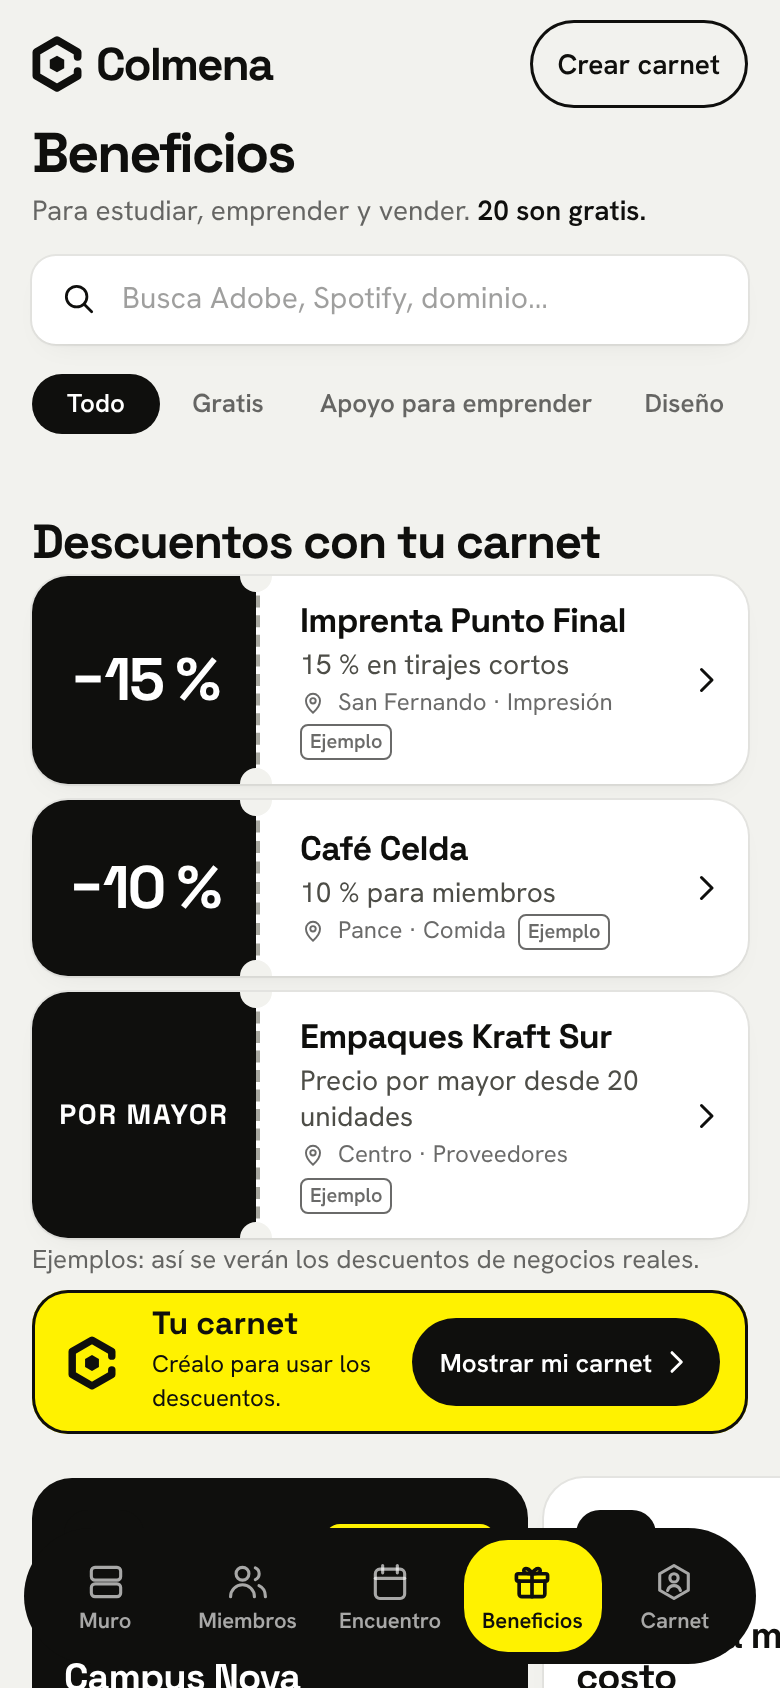
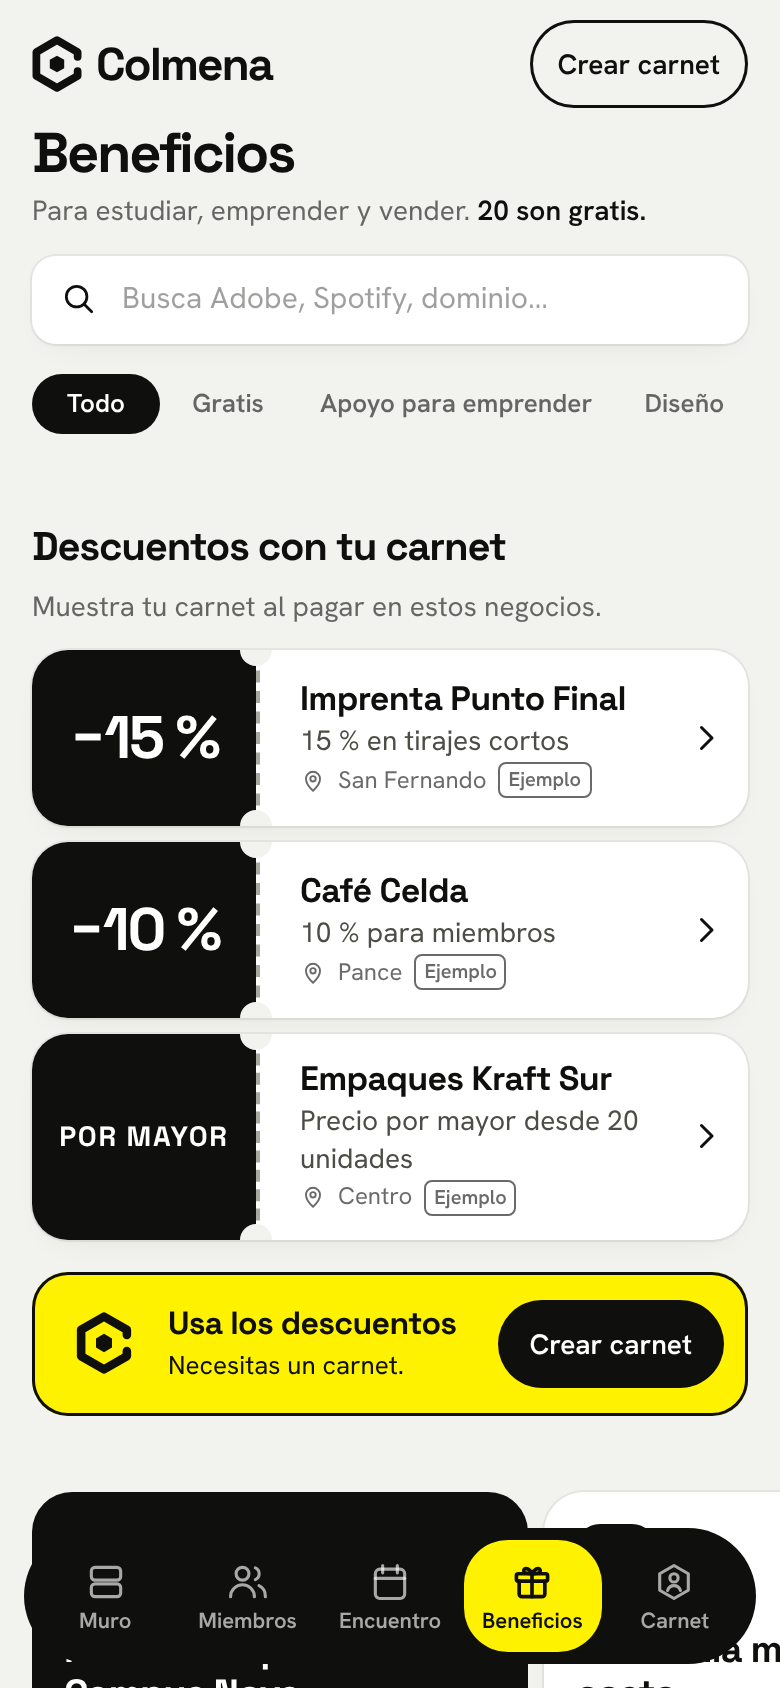
Corrige textos y espaciado del destacado y los descuentos
Quita los pasos abreviados del premio, restaura el flex de las secciones,
ajusta el carnet mini y la invitación a negocios.

Claude-Session: https://claude.ai/code/session_01NXLpfMcdTT21CPEoeYscCh

diff --git a/src/styles/app.css b/src/styles/app.css
@@ -1447,12 +1447,6 @@ button.chip, .bchips button, .m-cats button, .tabs-t button { min-width: 44px; }
 .dest-item.visto .dest-n { color: var(--muted); font-weight: 400; }
 
 /* Premio: pasos en una línea y cuenta regresiva */
-.home-ruta { list-style: none; margin: 0; padding: 0; display: flex; gap: 12px; flex-wrap: wrap; font: 600 13px/1.2 var(--ui); }
-.home-ruta li { display: inline-flex; align-items: center; gap: 6px; color: rgba(255, 255, 255, .86); }
-.home-ruta i { width: 22px; height: 24px; clip-path: var(--hex); background: var(--surface); color: var(--ink); display: grid; place-items: center; font: 700 12px/1 var(--disp); font-style: normal; }
-.home-premio-pie { display: flex; align-items: center; gap: 12px; flex-wrap: wrap; width: 100%; }
-.home-premio-pie small { font-size: 12px; color: rgba(255, 255, 255, .72); }
-.home-premio .cd { background: var(--surface); color: var(--ink); }
 .home-premio.con-ganador .home-avatar { animation: a-pop .24s var(--ease) both; }
 
 /* Tarjetas de la vitrina Esta semana */
@@ -1462,8 +1456,41 @@ button.chip, .bchips button, .m-cats button, .tabs-t button { min-width: 44px; }
 .home-mini small { font-size: 13px; color: var(--muted); }
 
 /* Cupones de aliados */
-.home-aliados { gap: 8px; }
-.home-aliados > .fine { margin: 2px 0 6px; }
+.home-aliados, .home-semana { display: flex; flex-direction: column; }
+.home-semana { gap: 12px; }
+.home-semana .sec-h { margin-top: 0; }
+.home-aliados h2, .home-semana h2, .home-gratis h2 { font-size: 20px; line-height: 1.15; }
+.home-aliados { gap: 8px; margin: 16px 0 16px; }
+.cupones { margin-top: 4px; }
+.home-aliados .cmini { margin-top: 8px; }
+.home-aliados .sec-h { margin-top: 0; }
+.home-aliados-sub { font-size: 14px; }
+
+/* Premio */
+.home-premio { gap: 12px; margin-top: 8px; }
+.home-premio-top { display: flex; align-items: center; justify-content: space-between; gap: 12px; width: 100%; }
+.home-premio-top .k { white-space: nowrap; display: flex; align-items: center; gap: 8px; color: rgba(255, 255, 255, .72); }
+.home-cierra { display: inline-flex; align-items: center; gap: 6px; min-height: 28px; padding: 0 10px; border-radius: 999px; background: rgba(255, 255, 255, .12); font: 600 12px/1 var(--disp); font-variant-numeric: tabular-nums; white-space: nowrap; }
+.home-premio > p { color: rgba(255, 255, 255, .8); max-width: 34ch; }
+.home-premio-pie { display: flex; align-items: center; gap: 12px; width: 100%; margin-top: 4px; }
+.home-premio-pie .btn { flex: 1; min-height: 48px; }
+
+/* Carnet mini: la llave de los descuentos */
+.cmini { display: flex; align-items: center; gap: 12px; width: 100%; min-height: 72px; padding: 12px 12px 12px 16px; border-radius: 18px; background: var(--polen); box-shadow: inset 0 0 0 1.5px var(--ink); text-align: left; transition: transform .15s var(--ease); }
+.cmini:active { transform: scale(.985); }
+.cmini-hex { flex: none; width: 40px; display: grid; place-items: center; }
+.cmini-t { flex: 1; min-width: 0; display: flex; flex-direction: column; gap: 4px; }
+.cmini-t b { font: 700 16px/1.2 var(--disp); letter-spacing: -.02em; overflow: hidden; text-overflow: ellipsis; white-space: nowrap; }
+.cmini-t small { font-size: 13px; line-height: 1.3; }
+.cmini-cta { flex: none; display: inline-flex; align-items: center; min-height: 44px; padding: 0 16px; border-radius: 999px; background: var(--ink); color: var(--surface); font: 600 14px/1 var(--ui); white-space: nowrap; }
+
+/* Invitación para negocios */
+.invita { display: flex; align-items: center; gap: 12px; width: 100%; min-height: 64px; padding: 12px 16px; border-radius: 18px; border: 1.5px dashed var(--ink-4); text-align: left; transition: transform .15s var(--ease); }
+.invita:active { transform: scale(.985); }
+.invita-ic { flex: none; width: 36px; height: 40px; clip-path: var(--hex); background: var(--surface); display: grid; place-items: center; }
+.invita-t { flex: 1; min-width: 0; display: flex; flex-direction: column; gap: 2px; }
+.invita-t b { font: 600 15px/1.25 var(--ui); }
+.invita-t small { font-size: 13px; color: var(--muted); }
 .cupones { display: flex; flex-direction: column; gap: 8px; }
 .cupon { display: flex; align-items: stretch; width: 100%; min-height: 88px; border-radius: 18px; background: var(--surface); box-shadow: var(--soft); text-align: left; overflow: hidden; transition: transform .15s var(--ease); padding-right: 12px; align-items: center; }
 .cupon:active { transform: scale(.985); }
@@ -1479,17 +1506,6 @@ button.chip, .bchips button, .m-cats button, .tabs-t button { min-width: 44px; }
 .cupon-cuerpo small { display: flex; align-items: center; flex-wrap: wrap; gap: 2px 6px; font-size: 12px; color: var(--muted); }
 .cupon-cuerpo small .ejemplo { margin-left: 0; }
 .cupon .ejemplo { margin-left: 6px; vertical-align: 2px; }
-.cupon.invita { background: transparent; box-shadow: inset 0 0 0 1.5px var(--ink-4); min-height: 72px; border-style: none; }
-.cupon.invita .cupon-valor { background: transparent; color: var(--ink); }
-.cupon.invita .cupon-valor::before, .cupon.invita .cupon-valor::after { display: none; }
-.cupon.invita .cupon-cuerpo { border-left-color: var(--ink-4); }
-.cmini { display: flex; align-items: center; gap: 12px; min-height: 64px; padding: 8px 14px 8px 12px; border-radius: 18px; background: var(--polen); box-shadow: inset 0 0 0 1.5px var(--ink); text-align: left; transition: transform .15s var(--ease); }
-.cmini:active { transform: scale(.985); }
-.cmini-hex { flex: none; width: 36px; display: grid; place-items: center; }
-.cmini-t { flex: 1; min-width: 0; display: flex; flex-direction: column; gap: 2px; }
-.cmini-t b { font: 700 16px/1.15 var(--disp); overflow: hidden; text-overflow: ellipsis; white-space: nowrap; }
-.cmini-t small { font-size: 12px; }
-.cmini-cta { flex: none; display: inline-flex; align-items: center; gap: 4px; min-height: 44px; padding: 0 14px; border-radius: 999px; background: var(--ink); color: var(--surface); font: 600 13px/1 var(--ui); white-space: nowrap; }
 
 /* Vitrinas intercaladas */
 .posts > .home-semana, .posts > .home-gratis { margin-block: 8px; }

diff --git a/src/screens/Beneficios.jsx b/src/screens/Beneficios.jsx
@@ -280,6 +280,7 @@ export function Aliados({ nav, pedirPerfil, limite = 0, invitar = false, onVerTo
       <h2>Descuentos con tu carnet</h2>
       {onVerTodos && todos.length > lista.length && <button type="button" className="ver" onClick={onVerTodos}>Ver todos</button>}
     </div>
+    <p className="soft home-aliados-sub">Muestra tu carnet al pagar en estos negocios.</p>
     {lista.length > 0 && (
       <div className="cupones">
         {lista.map((b) => {
@@ -290,7 +291,7 @@ export function Aliados({ nav, pedirPerfil, limite = 0, invitar = false, onVerTo
               <span className="cupon-cuerpo">
                 <b>{b.nombre}</b>
                 <span>{b.oferta}</span>
-                <small><Icon n="pin" s={13} />{[b.zona, b.categoria].filter(Boolean).join(' · ')}<Ejemplo p={b} /></small>
+                <small><Icon n="pin" s={13} />{b.zona || b.categoria}<Ejemplo p={b} /></small>
               </span>
               <Icon n="right" s={18} w={2} />
             </button>
@@ -298,16 +299,18 @@ export function Aliados({ nav, pedirPerfil, limite = 0, invitar = false, onVerTo
         })}
       </div>
     )}
-    {lista.length > 0 && lista.every((b) => b.es_ejemplo) && <p className="fine">Ejemplos: así se verán los descuentos de negocios reales.</p>}
     <button type="button" className="cmini" onClick={mostrar}>
-      <span className="cmini-hex">{c.yo ? <Hex p={c.yo} w={36} fs={13} /> : <CeldaAbierta s={24} />}</span>
-      <span className="cmini-t"><b>{c.yo ? c.yo.nombre : 'Tu carnet'}</b><small className={c.yo ? 'mono' : ''}>{c.yo ? carnetId(c.yo.carnet) : 'Créalo para usar los descuentos.'}</small></span>
-      <span className="cmini-cta">Mostrar mi carnet<Icon n="right" s={16} w={2.2} /></span>
+      <span className="cmini-hex">{c.yo ? <Hex p={c.yo} w={40} fs={14} /> : <CeldaAbierta s={28} />}</span>
+      <span className="cmini-t">
+        <b>{c.yo ? c.yo.nombre : 'Usa los descuentos'}</b>
+        <small className={c.yo ? 'mono' : ''}>{c.yo ? carnetId(c.yo.carnet) : 'Necesitas un carnet.'}</small>
+      </span>
+      <span className="cmini-cta">{c.yo ? 'Mostrar' : 'Crear carnet'}</span>
     </button>
     {invitar && (
-      <button type="button" className="cupon invita" onClick={() => setProponer(true)}>
-        <span className="cupon-valor"><Icon n="plus" s={26} w={2} /></span>
-        <span className="cupon-cuerpo"><b>¿Tienes un negocio?</b><span>Propón un descuento para los miembros.</span></span>
+      <button type="button" className="invita" onClick={() => setProponer(true)}>
+        <span className="invita-ic"><Icon n="plus" s={18} w={2.2} /></span>
+        <span className="invita-t"><b>¿Tienes un negocio?</b><small>Propón un descuento para los miembros.</small></span>
         <Icon n="right" s={18} w={2} />
       </button>
     )}

diff --git a/src/components/Inicio.jsx b/src/components/Inicio.jsx
@@ -77,7 +77,9 @@ export function Inicio({ nav, irTab, pedirPerfil }) {
 
       <EstadoDatos nombres={['reto', 'participantes', 'votos']}>
         <section className={'home-premio' + (perfil ? ' con-ganador' : '')} aria-label="Destacado de la semana">
-          <span className="k"><Icon n="star" s={16} /> Destacado de la semana</span>
+          <div className="home-premio-top">
+            <span className="k"><Icon n="star" s={16} /> Destacado de la semana</span>
+          </div>
           {perfil ? (
             <>
               <div className="home-ganador">
@@ -99,16 +101,10 @@ export function Inicio({ nav, irTab, pedirPerfil }) {
           ) : (
             <>
               <h2>Tu emprendimiento puede estar aquí.</h2>
-              <ol className="home-ruta" aria-label="Cómo se gana">
-                <li><i>1</i>Participa</li>
-                <li><i>2</i>Reciben Útil</li>
-                <li><i>3</i>7 días arriba</li>
-              </ol>
+              <p>{abierto ? 'Participa en el reto. La propuesta con más votos Útil se muestra aquí durante 7 días.' : 'El próximo reto elige al siguiente destacado con los votos Útil.'}</p>
               <div className="home-premio-pie">
-                <button className="btn outline-w sm" onClick={participar}>{abierto ? 'Participar en el reto' : 'Ver los retos'} <Icon n="right" s={16} /></button>
-                {abierto
-                  ? <span className="cd">{cierraEn(c.reto.cierra_en)}</span>
-                  : <small>El próximo destacado se elige con los votos Útil.</small>}
+                <button className="btn outline-w" onClick={participar}>{abierto ? 'Participar en el reto' : 'Ver los retos'} <Icon n="right" s={16} /></button>
+                {abierto && <span className="home-cierra"><Icon n="hour" s={14} />{cierraEn(c.reto.cierra_en)}</span>}
               </div>
             </>
           )}

diff --git a/docs/home-destacados/README.md b/docs/home-destacados/README.md
@@ -59,13 +59,14 @@ Misma rama y mismo PR. Comentarios de Jhon sobre la versión anterior: la franja
 ### Qué cambió
 1. **Sin "DCV" en la interfaz.** Bienvenida ("Colmena conecta a estudiantes que emprenden."), estado del carnet ("Activa") y textos de compartir ("la red de estudiantes que emprenden", en Registro y MiCarnet). `grep -rn DCV src` queda vacío y se revisaron `retos`, `encuentros`, `talleres`, `convocatorias` y `beneficios` en la base: ninguna fila lo contiene. No se tocó `docs/marca/` (el spec todavía dice "Activa · DCV": ver decisiones de Jhon). El dominio `colmena-dcv.netlify.app` sigue igual: es una URL, no un texto de la interfaz.
 2. **Perfil de prueba "jhon" eliminado** con migración de solo datos (`supabase/migraciones/20261104_borrar_perfil_prueba_jhon.sql`), solo por su id y con `not es_ejemplo`. Antes: 9 perfiles (1 real), 10+1 publicaciones; el objetivo tenía 1 publicación, 0 ayudas, 0 retos, 0 cuentas. Resultado: 1 publicación y 1 perfil borrados. Después: 8 perfiles (0 reales), 10 publicaciones (0 reales), 6 disponibles ahora. Revisión de estados: inicio, "Disponibles ahora", Miembros, destacado y bienvenida cargan sin vacíos ni errores (capturas más abajo y 17 comprobaciones de home).
-3. **Descuentos de aliados como cupones.** Cada uno es un cupón horizontal: bloque Tinta con el valor en grande (−15 %, −10 %, POR MAYOR), perforación con muescas y cuerpo Blanco con nombre, condición, zona y la etiqueta Ejemplo. Debajo, un carnet mini en Polen (con tu hexágono y número si tienes carnet) con el botón "Mostrar mi carnet", que abre la pantalla `mostrar` que ya existía (si no hay carnet, primero ofrece crearlo). Al final, una invitación con borde punteado, "¿Tienes un negocio?", que abre el formulario de propuesta ya existente (`proponer_beneficio`). Se apilan en vertical, así que no hay tarjetas cortadas ni huecos; el inicio muestra 3 y "Ver todos" lleva a Beneficios. No hay logos ni imágenes inventadas: el valor hace de imagen.
+3. **Descuentos de aliados como cupones.** Cada uno es un cupón horizontal: bloque Tinta con el valor en grande (−15 %, −10 %, POR MAYOR), perforación con muescas y cuerpo Blanco con nombre, condición, zona y la etiqueta Ejemplo. Debajo, un carnet mini en Polen (con tu hexágono y número si tienes carnet) con el botón "Mostrar" (o "Crear carnet"), que abre la pantalla `mostrar` que ya existía (si no hay carnet, primero ofrece crearlo). Al final, una invitación con borde punteado, "¿Tienes un negocio?", que abre el formulario de propuesta ya existente (`proponer_beneficio`). Se apilan en vertical, así que no hay tarjetas cortadas ni huecos; el inicio muestra 3 y "Ver todos" lleva a Beneficios. No hay logos ni imágenes inventadas: el valor hace de imagen.
 4. **Destacados tipo historias.** Fila de anillos hexagonales justo bajo el encabezado, con íconos del kit propio: Destacado/Reto, Descuentos, Talleres, Cierran pronto (convocatorias con cierre en 21 días o menos) y Gratis (beneficios más útiles, en el mismo orden que Beneficios). Cada uno abre un visor a pantalla completa con las pantallas armadas solo con datos de la base (`src/lib/historias.js`, función pura con 6 pruebas). Una pantalla por descuento, taller, convocatoria y beneficio; el destacado y el reto llevan su pantalla. Todo lo de muestra conserva "Ejemplo". Si un grupo no tiene datos o su lectura falla, su anillo simplemente no aparece: nunca se bloquea nada.
    - Visor (`src/components/Historias.jsx`): `<dialog>` modal (foco dentro y fondo inerte por el navegador), una barra por pantalla, tocar a la derecha adelanta y a la izquierda vuelve, mantener presionado pausa (la barra y el reloj se detienen juntos), deslizar de lado cambia de destacado, deslizar hacia abajo cierra, flechas del teclado y Escape. Con `prefers-reduced-motion` no avanza solo. Al terminar un destacado pasa al siguiente; al terminar el último, cierra. Cada pantalla tiene un solo botón en Polen con la acción (Participar, Ver carnet, Mostrar mi carnet, Ver talleres…).
    - Visto/no visto en `localStorage` (`colmena.destacados.vistos.v1`), con firma del contenido: si cambian las pantallas de un anillo, vuelve a salir como nuevo. Si el almacenamiento falla, todo sigue funcionando.
 5. **Encabezado y tarjeta del destacado más ricos, sin llenarlos.**
    - Encabezado: título más grande y una línea con "Disponibles ahora" (hexágonos y nombres de miembros con cupo, con la marca Ejemplo mientras todos sean de muestra) que lleva a Miembros. Para miembros, "Hola, Nombre" y "Esto es lo nuevo en la comunidad."
-   - Tarjeta sin ganador: cómo se gana en una línea de tres pasos con hexágonos (Participa · Reciben Útil · 7 días arriba) y la cuenta regresiva en una píldora. Con ganador: el avatar entra con un movimiento corto.
+   - Tarjeta sin ganador: una frase que explica cómo se gana ("Participa en el reto. La propuesta con más votos Útil se muestra aquí durante 7 días."), el botón Participar y la cuenta regresiva al lado. Con ganador: el avatar entra con un movimiento corto.
+   - Corrección tras la revisión de Jhon: se quitaron los pasos abreviados ("Reciben Útil", "7 días arriba"), que no se entendían; la sección de descuentos recuperó su espaciado (una limpieza de CSS había borrado su `display: flex`), lleva una línea de ayuda bajo el título, el carnet mini dice "Usa los descuentos · Crear carnet" (o tu nombre y "Mostrar") y la invitación a negocios es una fila delgada con borde punteado.
    - Ritmo: encabezado → anillos → tarjeta oscura → cupones → publicar → publicaciones, con las vitrinas intercaladas: "Esta semana" después de la tercera publicación y "Ya los tienes por ser estudiante" (3 beneficios con logo) después de la séptima. Solo aparecen con el filtro "Todo" y sin categoría, y si hay pocas publicaciones salen al final. Así el tramo largo de publicaciones se interrumpe con superficies de forma distinta (tarjetas horizontales, lista) y hay razones para seguir bajando.
    - Polen: botón de publicar y carnet mini como únicos focos; los anillos son Tinta/Blanco (visto = Blanco con borde fino, no visto = Tinta sólido). En el visor, Polen solo en el botón de acción.
 
